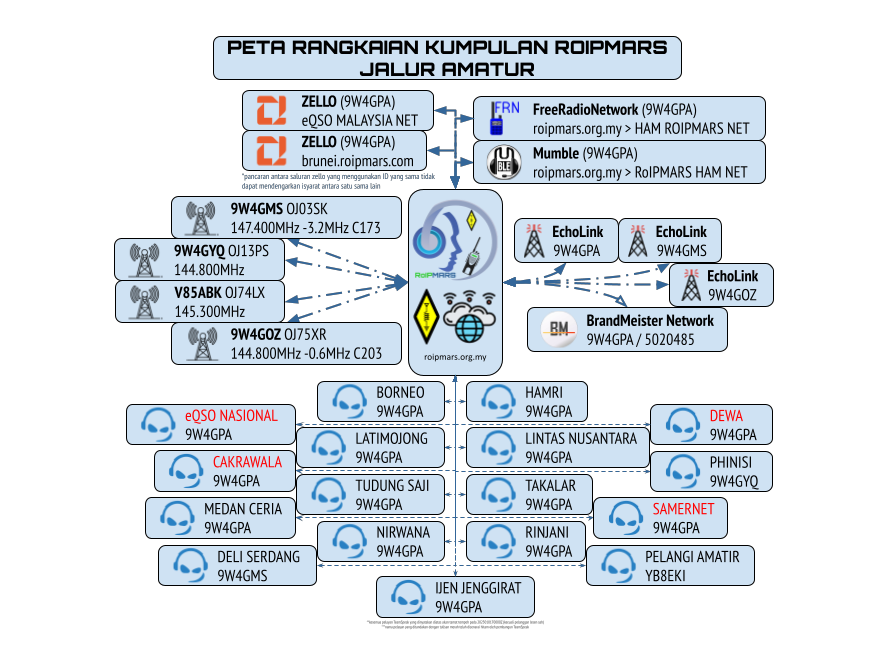
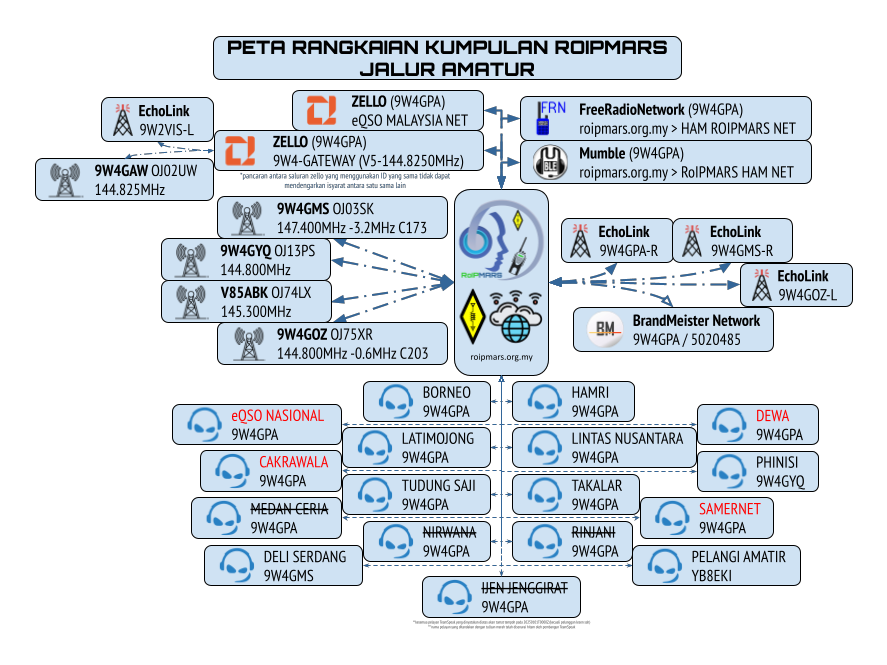
link network update

Changed region(s): [[0.0304, 0.1203, 0.9741, 0.9624]]

diff --git a/rnd.php b/rnd.php
@@ -110,15 +110,21 @@
     <div class='row'>
       <h2 class='text-center'>Peta Rangkaian Kumpulan RoIPMARS</h2>
 			<div class='col-lg-6 my-1'>
-				<img class='img-fluid mx-auto d-block bg-light-subtle rounded-5' src='media/image/roipmars-ham-net-map.png' loading='lazy' alt='ham-link-map'>
+        <figure class='figure'>
+          <figcaption class='figure-caption text-center text-lg-end fs-4'>Rangkaian Utama &#40;kegunaan Radio Amatur&#41;</figcaption>
+          <img class='img-fluid mx-auto d-block bg-light-subtle rounded-5' src='media/image/roipmars-ham-net-map.png' loading='lazy' alt='ham-link-map'>
+        </figure>
 			</div>
 			<div class='col-lg-6 my-1'>
-				<img class='img-fluid mx-auto d-block bg-light-subtle rounded-5' src='media/image/roipmars-cb-net-map.png' loading='lazy' alt='cb-link-map'>
+        <figure class='figure'>
+          <figcaption class='figure-caption text-center text-lg-start fs-4'>Rangkaian Sekunder &#40;kegunaan Jalur Rakyat&#41;</figcaption>
+          <img class='img-fluid mx-auto d-block bg-light-subtle rounded-5' src='media/image/roipmars-cb-net-map.png' loading='lazy' alt='cb-link-map'>
+        </figure>
 			</div>
 		</div>
     <div class='row'>
       <div class='col-12'>
-        <h2 class='h2 text-center'>Pengurusan Kumpulan Rangkaian RoIPMARS</h2>
+        <h2 class='h2 text-center'>Pengurusan Kumpulan Rangkaian RoIPMARS</h2>
       </div>
       <div class='col-lg-6 my-2'>
         <div class='row g-1 text-lg-start text-center'>
